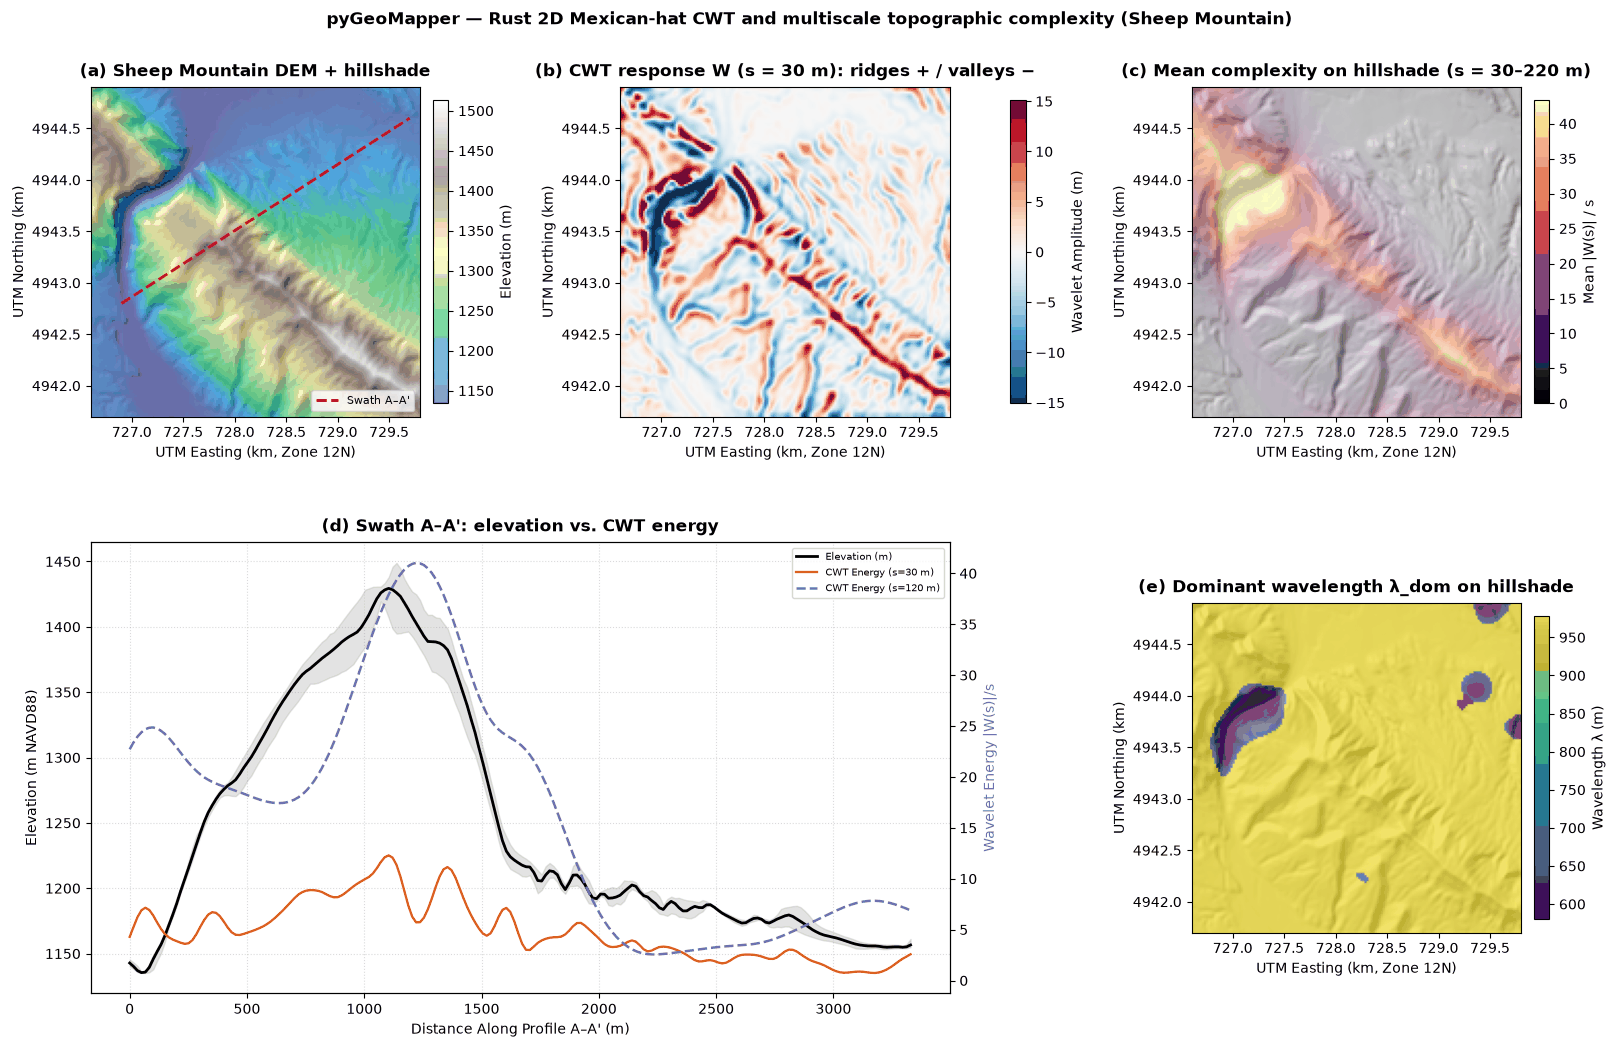
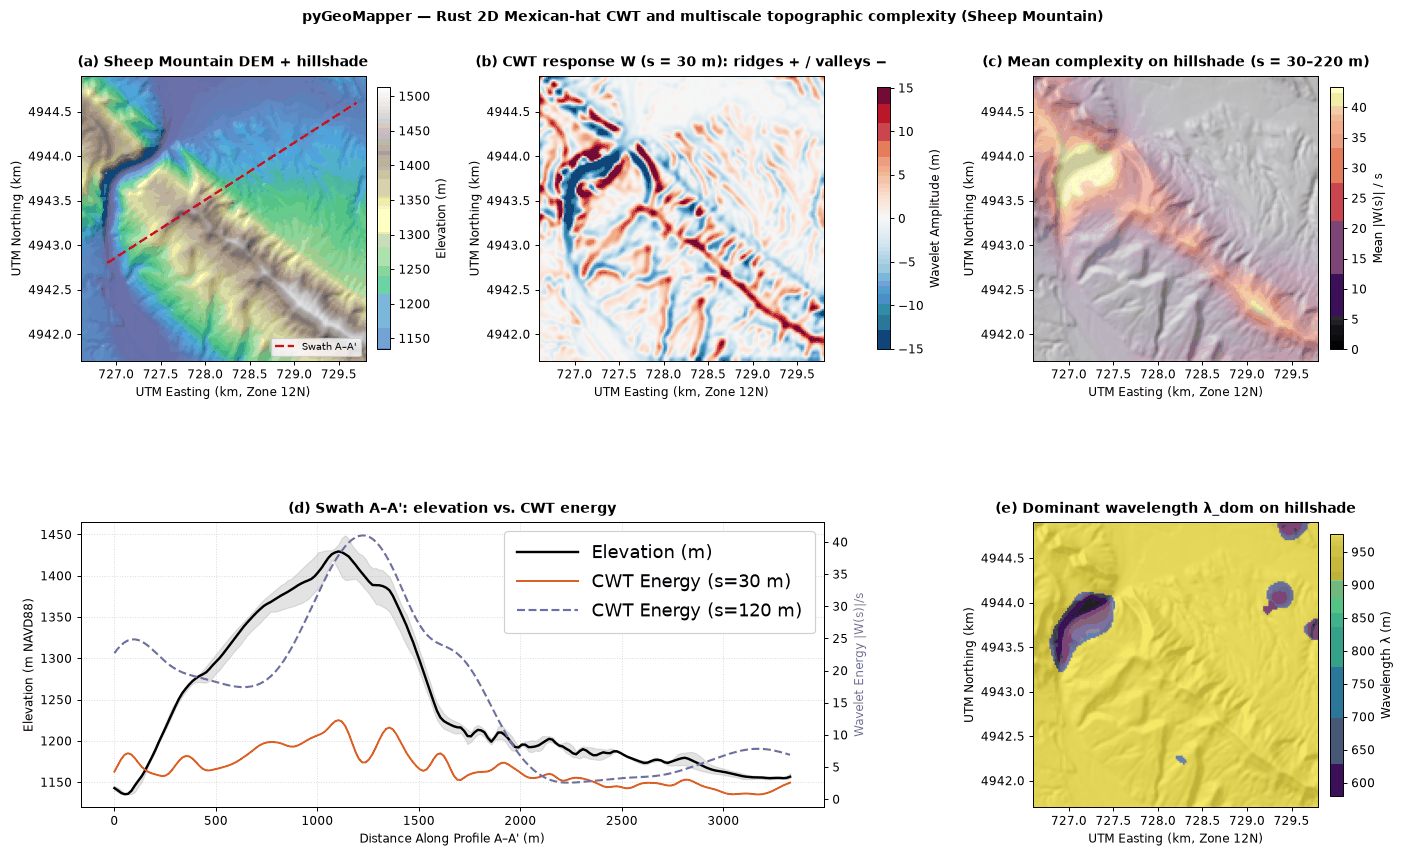
fix: match CWT panel (d) axes height to (e) and enlarge legend

diff --git a/scripts/regenerate_readme_science_figures.py b/scripts/regenerate_readme_science_figures.py
@@ -191,7 +191,19 @@ def regenerate_cwt_multiscale() -> Path:
     ax_prof.grid(True, ls=":", alpha=0.45)
     lines1, labels1 = ax_prof.get_legend_handles_labels()
     lines2, labels2 = ax_prof2.get_legend_handles_labels()
-    ax_prof2.legend(lines1 + lines2, labels1 + labels2, loc="upper right", fontsize=7.5)
+    # Larger in-axes legend so Elevation / CWT entries stay readable at README size.
+    ax_prof.legend(
+        lines1 + lines2,
+        labels1 + labels2,
+        loc="upper right",
+        fontsize=15,
+        handlelength=3.4,
+        handletextpad=0.75,
+        borderpad=0.7,
+        labelspacing=0.6,
+        markerscale=1.2,
+        framealpha=0.94,
+    )
 
     # (e) Dominant wavelength on DEM hillshade (old d → old f slot as transparent overlay)
     lam = np.asarray(sheep_cwt["dominant_wavelength_m"].data, dtype=np.float64)
@@ -209,6 +221,7 @@ def regenerate_cwt_multiscale() -> Path:
 
     for a in (ax_a, ax_b, ax_c, ax_lam):
         plotting.use_plain_axes(a)
+        a.set_aspect("equal", adjustable="box")
 
     fig.suptitle(
         "pyGeoMapper — Rust 2D Mexican-hat CWT and multiscale topographic complexity (Sheep Mountain)",
@@ -216,6 +229,17 @@ def regenerate_cwt_multiscale() -> Path:
         fontweight="bold",
         y=1.01,
     )
+
+    # Equal-aspect maps shrink inside the bottom-right cell; unconstrained (d) would otherwise
+    # fill the full row height. Freeze layout, then lock (d)/(d twin) to (e)'s axes height.
+    fig.canvas.draw()
+    fig.set_layout_engine(None)
+    pos_e = ax_lam.get_position()
+    pos_d = ax_prof.get_position()
+    matched = [pos_d.x0, pos_e.y0, pos_d.width, pos_e.height]
+    ax_prof.set_position(matched)
+    ax_prof2.set_position(matched)
+
     out = IMG / "cwt_multiscale.png"
     plotting.save_figure(fig, out, max_width_px=1400, palette=True)
     return out
